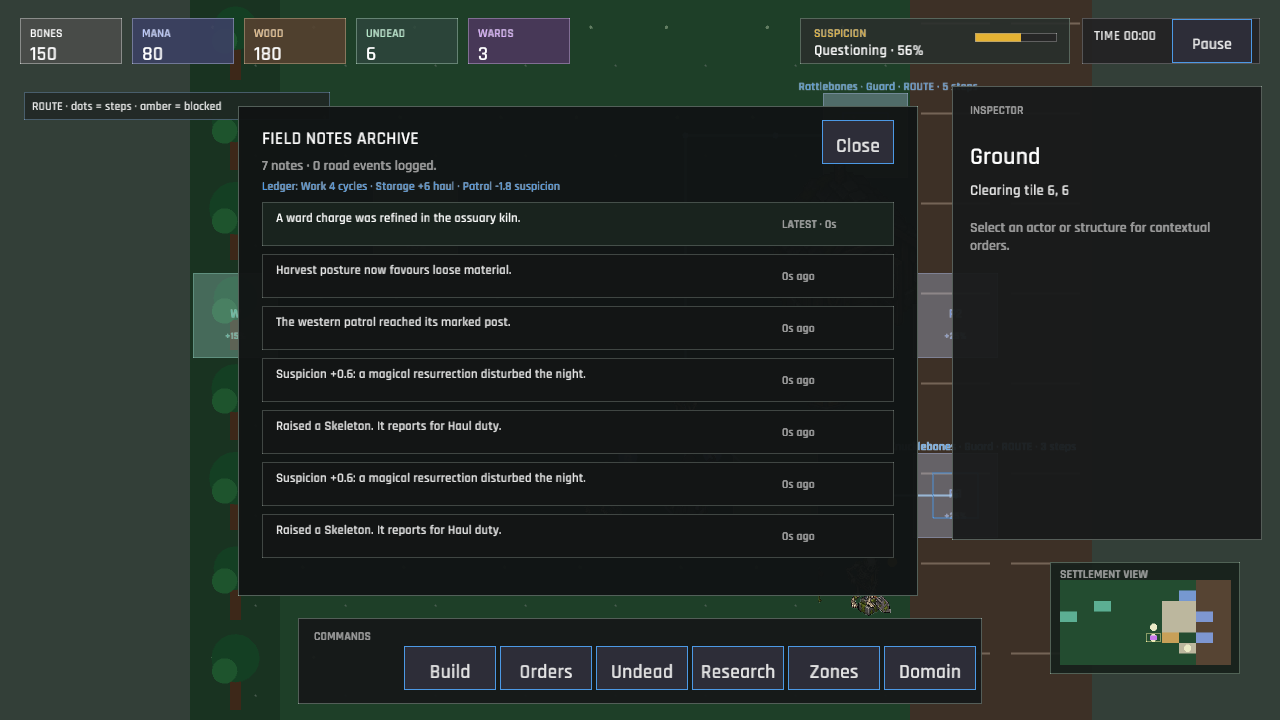
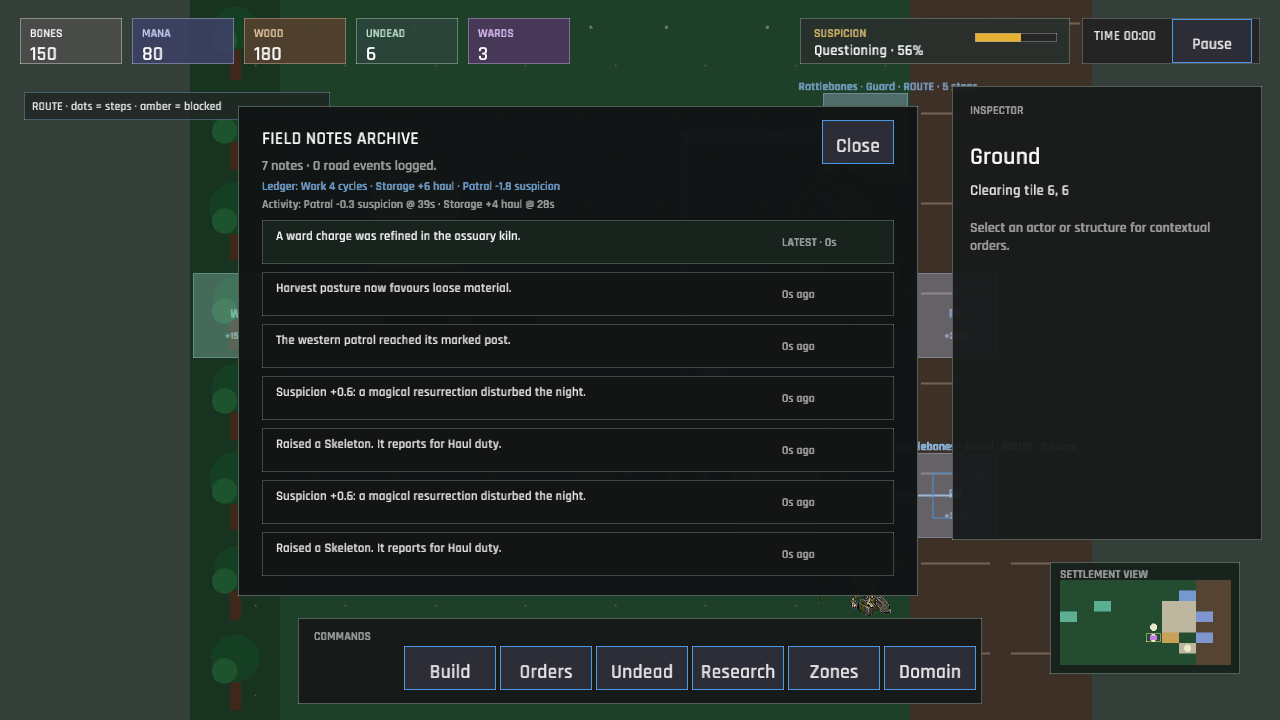
The archive remembers each blessing as it lands (district activity trail, Domain Stewardship)
Added a bounded, save-persistent district activity trail for meaningful Work cycles, Storage capacity bonuses, and Patrol quieting. The Field Notes archive and wide compact sheet show the newest effects with elapsed times, while legacy saves receive an empty trail and the existing totals remain unchanged. Capture data and documentation now make the chronology visible.

Changed region(s): [[0.1875, 0.275, 0.6875, 0.7944]]

diff --git a/src/engine/districts.rs b/src/engine/districts.rs
@@ -1,8 +1,10 @@
 //! Domain Stewardship rules applied by marked district tiles.
 
 use crate::data::DistrictRules;
-use crate::state::{GameSession, Technology, ZoneKind};
+use crate::state::{DistrictActivity, DistrictActivityKind, GameSession, Technology, ZoneKind};
 use macroquad_toolkit::grid::TilePos;
+
+const RECENT_ACTIVITY_LIMIT: usize = 8;
 
 pub fn work_speed_multiplier(session: &GameSession, rules: &DistrictRules, tile: TilePos) -> f32 {
     if rule_active(session, ZoneKind::Work) && session.world.zone_contains(ZoneKind::Work, tile) {
@@ -76,6 +78,40 @@ pub fn ledger_summary(session: &GameSession) -> String {
     )
 }
 
+pub fn activity_summary(session: &GameSession) -> String {
+    let entries = session
+        .progress
+        .district_ledger
+        .recent_activity
+        .iter()
+        .take(2)
+        .map(format_activity)
+        .collect::<Vec<_>>();
+    if entries.is_empty() {
+        "Activity: no marked district effect recorded yet.".to_owned()
+    } else {
+        format!("Activity: {}", entries.join(" · "))
+    }
+}
+
+pub fn latest_activity_summary(session: &GameSession) -> String {
+    session
+        .progress
+        .district_ledger
+        .recent_activity
+        .first()
+        .map_or_else(
+            || "Last district effect: none recorded.".to_owned(),
+            |entry| {
+                format!(
+                    "Last: {} @ {:.0}s",
+                    activity_label(entry),
+                    entry.elapsed_seconds
+                )
+            },
+        )
+}
+
 pub fn record_work_cycle(session: &mut GameSession) {
     let first = {
         let ledger = &mut session.progress.district_ledger;
@@ -83,6 +119,7 @@ pub fn record_work_cycle(session: &mut GameSession) {
         ledger.work_cycles = ledger.work_cycles.saturating_add(1);
         first
     };
+    record_activity(session, DistrictActivityKind::WorkCycle, 1.0);
     if first {
         session.add_feed("A marked Work tile completes its first accelerated cycle.");
     }
@@ -98,6 +135,7 @@ pub fn record_storage_bonus(session: &mut GameSession, amount: i32) {
         ledger.storage_bonus_items = ledger.storage_bonus_items.saturating_add(amount);
         first
     };
+    record_activity(session, DistrictActivityKind::StorageBonus, amount as f32);
     if first {
         session.add_feed("Marked Storage gives a hauler extra room on its first pickup.");
     }
@@ -113,8 +151,36 @@ pub fn record_patrol_quieting(session: &mut GameSession, amount: f32) {
         ledger.patrol_quieting += amount;
         first
     };
+    record_activity(session, DistrictActivityKind::PatrolQuieting, amount);
     if first {
         session.add_feed("A marked Patrol post quiets the road more effectively.");
+    }
+}
+
+fn record_activity(session: &mut GameSession, kind: DistrictActivityKind, amount: f32) {
+    let activity = &mut session.progress.district_ledger.recent_activity;
+    activity.insert(
+        0,
+        DistrictActivity {
+            kind,
+            amount,
+            elapsed_seconds: session.progress.elapsed_seconds,
+        },
+    );
+    activity.truncate(RECENT_ACTIVITY_LIMIT);
+}
+
+fn format_activity(entry: &DistrictActivity) -> String {
+    format!("{} @ {:.0}s", activity_label(entry), entry.elapsed_seconds)
+}
+
+fn activity_label(entry: &DistrictActivity) -> String {
+    match entry.kind {
+        DistrictActivityKind::WorkCycle => "Work cycle".to_owned(),
+        DistrictActivityKind::StorageBonus => format!("Storage +{:.0} haul", entry.amount),
+        DistrictActivityKind::PatrolQuieting => {
+            format!("Patrol -{:.1} suspicion", entry.amount)
+        }
     }
 }
 

diff --git a/src/state/tests.rs b/src/state/tests.rs
@@ -20,6 +20,15 @@ fn save_round_trip_preserves_rng_and_operation() {
     session.progress.district_ledger.work_cycles = 3;
     session.progress.district_ledger.storage_bonus_items = 5;
     session.progress.district_ledger.patrol_quieting = 1.25;
+    session
+        .progress
+        .district_ledger
+        .recent_activity
+        .push(DistrictActivity {
+            kind: DistrictActivityKind::StorageBonus,
+            amount: 4.0,
+            elapsed_seconds: 12.0,
+        });
     let save = session.to_save(&data.config.version);
     let restored = GameSession::from_save(save.clone());
     assert_eq!(restored.phase, GamePhase::Playing);
@@ -28,6 +37,11 @@ fn save_round_trip_preserves_rng_and_operation() {
     assert_eq!(restored.progress.district_ledger.work_cycles, 3);
     assert_eq!(restored.progress.district_ledger.storage_bonus_items, 5);
     assert!((restored.progress.district_ledger.patrol_quieting - 1.25).abs() < 0.001);
+    assert_eq!(restored.progress.district_ledger.recent_activity.len(), 1);
+    assert_eq!(
+        restored.progress.district_ledger.recent_activity[0].kind,
+        DistrictActivityKind::StorageBonus
+    );
     assert_eq!(restored.rng.state(), save.rng_state);
 }
 
@@ -46,6 +60,7 @@ fn older_saves_default_the_district_ledger() {
     assert_eq!(restored.progress.district_ledger.work_cycles, 0);
     assert_eq!(restored.progress.district_ledger.storage_bonus_items, 0);
     assert_eq!(restored.progress.district_ledger.patrol_quieting, 0.0);
+    assert!(restored.progress.district_ledger.recent_activity.is_empty());
 }
 
 #[test]

diff --git a/src/game/capture.rs b/src/game/capture.rs
@@ -4,8 +4,9 @@ use super::Game;
 use crate::data::SuspicionStage;
 use crate::engine::corpses;
 use crate::state::{
-    BuildingKind, GamePhase, GameSession, JobKind, ProductionOrder, Selection, StewardshipPolicy,
-    Technology, UndeadKind, WorkerStatus, Zone, ZoneKind,
+    BuildingKind, DistrictActivity, DistrictActivityKind, GamePhase, GameSession, JobKind,
+    ProductionOrder, Selection, StewardshipPolicy, Technology, UndeadKind, WorkerStatus, Zone,
+    ZoneKind,
 };
 use crate::ui::{self, DomainOverlays, Panel};
 use macroquad::prelude::*;
@@ -215,6 +216,23 @@ impl Game {
         self.session.progress.district_ledger.work_cycles = 4;
         self.session.progress.district_ledger.storage_bonus_items = 6;
         self.session.progress.district_ledger.patrol_quieting = 1.75;
+        self.session.progress.district_ledger.recent_activity = vec![
+            DistrictActivity {
+                kind: DistrictActivityKind::PatrolQuieting,
+                amount: 0.35,
+                elapsed_seconds: 39.0,
+            },
+            DistrictActivity {
+                kind: DistrictActivityKind::StorageBonus,
+                amount: 4.0,
+                elapsed_seconds: 28.0,
+            },
+            DistrictActivity {
+                kind: DistrictActivityKind::WorkCycle,
+                amount: 1.0,
+                elapsed_seconds: 15.0,
+            },
+        ];
         self.session.world.selected = Some(Selection::Ground(TilePos::new(5, 5)));
         self.panel = Panel::Zones;
         self.zone_mode = Some(ZoneKind::Work);

diff --git a/src/engine/districts/tests.rs b/src/engine/districts/tests.rs
@@ -117,16 +117,32 @@ fn district_ledger_records_effects_and_first_use_notes() {
     );
     record_work_cycle(&mut session);
     record_work_cycle(&mut session);
+    session.progress.elapsed_seconds = 12.0;
     record_storage_bonus(&mut session, 4);
+    session.progress.elapsed_seconds = 18.0;
     record_patrol_quieting(&mut session, 0.6);
     record_patrol_quieting(&mut session, 0.2);
 
     assert_eq!(session.progress.district_ledger.work_cycles, 2);
     assert_eq!(session.progress.district_ledger.storage_bonus_items, 4);
     assert!((session.progress.district_ledger.patrol_quieting - 0.8).abs() < 0.001);
+    assert_eq!(session.progress.district_ledger.recent_activity.len(), 5);
+    assert_eq!(
+        session.progress.district_ledger.recent_activity[0].kind,
+        DistrictActivityKind::PatrolQuieting
+    );
+    assert!((session.progress.district_ledger.recent_activity[0].amount - 0.2).abs() < 0.001);
     assert_eq!(
         ledger_summary(&session),
         "Ledger: Work 2 cycles · Storage +4 haul · Patrol -0.8 suspicion"
+    );
+    assert_eq!(
+        activity_summary(&session),
+        "Activity: Patrol -0.2 suspicion @ 18s · Patrol -0.6 suspicion @ 18s"
+    );
+    assert_eq!(
+        latest_activity_summary(&session),
+        "Last: Patrol -0.2 suspicion @ 18s"
     );
     assert_eq!(session.pressure.feed.len(), 4);
     assert!(session

diff --git a/src/ui/panels.rs b/src/ui/panels.rs
@@ -305,6 +305,16 @@ fn draw_feed_history_panel(ctx: &UiContext<'_>, pointer: Pointer, actions: &mut 
         0.0,
         dark::ACCENT,
     );
+    draw_text_block(
+        &districts::activity_summary(ctx.session),
+        rect.x + 24.0,
+        rect.y + 90.0,
+        rect.w - 48.0,
+        16.0,
+        11.0,
+        0.0,
+        dark::TEXT_DIM,
+    );
     if virtual_button(
         Rect::new(rect.right() - 96.0, rect.y + 14.0, 72.0, 44.0),
         "Close",
@@ -317,7 +327,7 @@ fn draw_feed_history_panel(ctx: &UiContext<'_>, pointer: Pointer, actions: &mut 
     for (index, entry) in ctx.session.pressure.feed.iter().take(7).enumerate() {
         let row = Rect::new(
             rect.x + 24.0,
-            rect.y + 96.0 + index as f32 * 52.0,
+            rect.y + 114.0 + index as f32 * 52.0,
             632.0,
             44.0,
         );
@@ -364,7 +374,7 @@ fn draw_feed_history_panel(ctx: &UiContext<'_>, pointer: Pointer, actions: &mut 
         draw_text_block(
             "No field notes recorded yet.",
             rect.x + 24.0,
-            rect.y + 108.0,
+            rect.y + 114.0,
             rect.w - 48.0,
             22.0,
             16.0,

diff --git a/src/ui/responsive/panels.rs b/src/ui/responsive/panels.rs
@@ -503,6 +503,25 @@ fn draw_compact_feed_panel(
         0.0,
         dark::ACCENT,
     );
+    let show_activity = sheet.w >= 520.0
+        && !ctx
+            .session
+            .progress
+            .district_ledger
+            .recent_activity
+            .is_empty();
+    if show_activity {
+        draw_text_block(
+            &districts::latest_activity_summary(ctx.session),
+            sheet.x + 16.0,
+            sheet.y + 120.0,
+            sheet.w - 32.0,
+            16.0,
+            11.0,
+            0.0,
+            dark::TEXT_DIM,
+        );
+    }
     if virtual_button(
         Rect::new(sheet.right() - 92.0, sheet.y + 80.0, 76.0, 40.0),
         "Close",
@@ -513,7 +532,7 @@ fn draw_compact_feed_panel(
         actions.push(UiAction::TogglePanel(Panel::None));
     }
     for (index, entry) in ctx.session.pressure.feed.iter().take(4).enumerate() {
-        let y = sheet.y + 132.0 + index as f32 * 52.0;
+        let y = sheet.y + if show_activity { 148.0 } else { 132.0 } + index as f32 * 52.0;
         draw_text_block(
             &entry.message,
             sheet.x + 16.0,

diff --git a/src/state.rs b/src/state.rs
@@ -442,6 +442,22 @@ pub struct DistrictLedger {
     pub storage_bonus_items: i32,
     #[serde(default)]
     pub patrol_quieting: f32,
+    #[serde(default)]
+    pub recent_activity: Vec<DistrictActivity>,
+}
+
+#[derive(Debug, Clone, Copy, PartialEq, Eq, Serialize, Deserialize)]
+pub enum DistrictActivityKind {
+    WorkCycle,
+    StorageBonus,
+    PatrolQuieting,
+}
+
+#[derive(Debug, Clone, Serialize, Deserialize)]
+pub struct DistrictActivity {
+    pub kind: DistrictActivityKind,
+    pub amount: f32,
+    pub elapsed_seconds: f32,
 }
 
 #[derive(Debug, Clone, Serialize, Deserialize)]

diff --git a/docs/visual-direction-and-ui-plan.md b/docs/visual-direction-and-ui-plan.md
@@ -111,7 +111,7 @@ Do not add conventional food and housing needs automatically. If later design re
 
 ## Current prototype and remaining direction
 
-The current game has a 10 × 8 world, six authored grave positions, one starting skeleton, three building types, jobs, repeat priorities, corpse qualities, suspicion events, versioned save support, a selectable necromancer, positioned buildings, four research technologies, editable work areas, deterministic worker routing, route-aware Work/Storage/Patrol destinations, stable multi-post patrol coverage, reachable patrol coverage accounting, aggregated storage and patrol districts, an Ossuary Kiln production recipe with a three-cycle queue, a district overview with a stateful minimap, actionable operational alerts with a seven-entry History drawer, Domain Stewardship overlays for zones, worker routes, and road pressure, persistent Balanced, Secure, and Harvest policies for automated workers, location-aware Work/Storage/Patrol district rules that affect workers operating on marked tiles after Domain Stewardship, actionable Work district staffing advisories, a save-persistent district performance ledger with first-use Field Notes, and touch camera pan/pinch with visible zoom and recenter controls on compact viewports. The sprite sheet is registered through the texture manifest and falls back to an obvious placeholder when unavailable. The current victory condition ends the slice after the small cemetery is established; larger district simulation remains future work.
+The current game has a 10 × 8 world, six authored grave positions, one starting skeleton, three building types, jobs, repeat priorities, corpse qualities, suspicion events, versioned save support, a selectable necromancer, positioned buildings, four research technologies, editable work areas, deterministic worker routing, route-aware Work/Storage/Patrol destinations, stable multi-post patrol coverage, reachable patrol coverage accounting, aggregated storage and patrol districts, an Ossuary Kiln production recipe with a three-cycle queue, a district overview with a stateful minimap, actionable operational alerts with a seven-entry History drawer, Domain Stewardship overlays for zones, worker routes, and road pressure, persistent Balanced, Secure, and Harvest policies for automated workers, location-aware Work/Storage/Patrol district rules that affect workers operating on marked tiles after Domain Stewardship, actionable Work district staffing advisories, a save-persistent district performance ledger with first-use Field Notes and a bounded recent activity trail, and touch camera pan/pinch with visible zoom and recenter controls on compact viewports. The sprite sheet is registered through the texture manifest and falls back to an obvious placeholder when unavailable. The current victory condition ends the slice after the small cemetery is established; larger district simulation remains future work.
 
 | Implemented foundation | Remaining direction |
 | --- | --- |
@@ -135,7 +135,7 @@ Existing saves already receive deterministic defaults for positioned buildings, 
 3. **First research transition (implemented for the slice).** Binding Routines and the research chain gate repeat priorities, placement, work areas, logistics, and domain controls. Versioned saves preserve the new state with deterministic defaults.
 4. **Movement and animation readability (implemented).** Workers visibly walk tile by tile, hauling has a real carried-resource phase, jobs expose procedural tool motion, and the necromancer walks, retargets, cancels, and pulses while ritualizing.
 5. **First colony slice (implemented for the current slice).** The Ossuary Kiln completes a material → construction → production chain after Ossuary Logistics, workers route around basic obstructions before working, and painted Work, Storage, and Patrol areas select nearby destinations. The minimap and worker/grave cues provide first-pass domain feedback while keeping the original cemetery recognizable as part of the expanded settlement.
-6. **Scale and domain controls (implemented for the current slice).** The settlement overview includes useful operational alerts with source selection, Domain Stewardship controls for district marks, worker routes, and road-pressure coverage, actionable Work district staffing guidance, persistent Balanced, Secure, and Harvest policies that affect automated worker choices, additive Work, Storage, and Patrol rules that make marked districts operationally meaningful, and a save-persistent performance ledger that records their real contribution. Future work can add deeper district simulation while validating worker selection and performance before growing the content set.
+6. **Scale and domain controls (implemented for the current slice).** The settlement overview includes useful operational alerts with source selection, Domain Stewardship controls for district marks, worker routes, and road-pressure coverage, actionable Work district staffing guidance, persistent Balanced, Secure, and Harvest policies that affect automated worker choices, additive Work, Storage, and Patrol rules that make marked districts operationally meaningful, and a save-persistent performance ledger with a bounded activity trail that records their real contribution. Future work can add deeper district simulation while validating worker selection and performance before growing the content set.
 7. **Responsive command surface (implemented for the current slice).** Compact viewports use a full-window logical canvas, preserve the world above a bottom sheet, and expose the same touch-first actions for selection, management, events, pause, placement recovery, and field notes. Verification captures include the 800 × 600 composition and a 360 × 640 narrow-navigation stress state.
 8. **Touch camera navigation (implemented for the current slice).** Compact viewports provide visible zoom and recenter controls plus gesture-aware map pan and pinch zoom. Claimed map gestures suppress accidental selection and command activation when the contact ends.
 

diff --git a/gdd.md b/gdd.md
@@ -132,7 +132,10 @@ The Domain readout keeps a save-persistent ledger of accelerated Work cycles,
 extra Storage capacity actually used, and additional Patrol quieting. The first
 successful use of each active rule also becomes a Field Notes entry, giving the
 player a short operational history without flooding the feed every simulation
-step.
+step. The ledger also keeps the eight most recent meaningful district effects,
+with their measured contribution and elapsed time, so the Field Notes archive
+can show a compact chronology alongside the totals. Older saves receive an
+empty activity trail without losing their existing ledger values.
 
 ### 5.4 Determinism and saves
 
